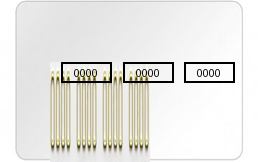
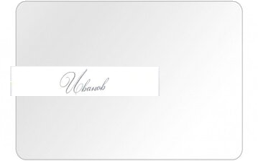
Add files via upload

Changed region(s): [[0.031, 0.3704, 0.6822, 1.0], [0.7132, 0.3704, 0.9302, 0.5247], [0.2171, 0.9877, 0.2481, 1.0]]

diff --git a/main.py b/main.py
@@ -288,10 +288,9 @@ extra_icons = {
     "Магнитная полоса с кодированием": os.path.join(BASE_IMAGE_DIR, "magnetic_strip.png"),
     "Печатный номер": os.path.join(BASE_IMAGE_DIR, "print_number.png"),
     "Отверстия в карте (за каждое)": os.path.join(BASE_IMAGE_DIR, "hole.png"),
-    "Магнитный винил (Магниты)" : os.path.join(BASE_IMAGE_DIR, "magnetic_strip.png"),
     "Фактурное покрытие": os.path.join(BASE_IMAGE_DIR, "texture.png"),
     "Эмбоссирование и типирование": os.path.join(BASE_IMAGE_DIR, "emboss.png"),
-    "Тиснение (фальгирование)": 0,
+    "Тиснение (фальгирование)": os.path.join(BASE_IMAGE_DIR, ""),
     "Скретч-полосса (стираемый слой)": os.path.join(BASE_IMAGE_DIR, "scratch.png"),
     "Полоса для подписи": os.path.join(BASE_IMAGE_DIR, "signature.png")
 }
@@ -377,12 +376,10 @@ def create_card_image(chat_id):
         "Магнитная полоса с кодированием": (0, card_height_px - 20),  # Внизу
         "Печатный номер": (50, card_height_px - 100),  # Под магнитной полосой
         "Отверстия в карте (за каждое)": (card_width_px - 150, card_height_px // 2),  # Справа по центру
-        "Магнитный винил (Магниты)": (card_width_px - 150, card_height_px - 100),  # Справа внизу
         "Фактурное покрытие": (50, 50),  # Слева сверху
         "Эмбоссирование и типирование": (card_width_px // 2, 50),  # По центру сверху
         "Тиснение (фальгирование)": (card_width_px // 2, card_height_px // 2),  # Центр
         "Скретч-полосса (стираемый слой)": (card_width_px - 150, 50),  # Справа сверху
-        "Полоса для подписи": (50, card_height_px // 2)  # Слева по центру
     }
     
     # Размеры иконок
@@ -404,9 +401,8 @@ def create_card_image(chat_id):
             position = element_positions.get(extra, (50, 50))  # По умолчанию (50, 50)
             
             # Накладываем иконку на базовое изображение
-            card_image.paste(icon, position, icon)
             
-            # Специфическая логика для некоторых элементов
+            # Специфическая логика для элементов
             if extra == "Магнитная полоса с кодированием":
                 magnetic_strip_path = extra_icons.get("Магнитная полоса с кодированием")
                 if magnetic_strip_path and os.path.exists(magnetic_strip_path):
@@ -424,55 +420,76 @@ def create_card_image(chat_id):
                     magnetic_strip = Image.new("RGBA", (card_width_px, 20), color=(0, 0, 0, 255))
                     card_image.paste(magnetic_strip, (0, card_height_px - 20), magnetic_strip)
             
-            elif extra == "Отверстия в карте (за каждое)":
-                hole_icon_path = extra_icons.get("Отверстия в карте (за каждое)")
-                if hole_icon_path and os.path.exists(hole_icon_path):
-                    try:
-                        # Открываем иконку отверстий
-                        hole_icon = Image.open(hole_icon_path).convert("RGBA")
-                        # Масштабируем до нужных размеров
-                        hole_icon = hole_icon.resize((30, 30))
-                        # Размещаем несколько отверстий
-                        for i in range(3):  # Пример: добавляем 3 отверстия
-                            hole_position = (
-                                position[0] + i * 40,
-                                position[1]
-                            )
-                            card_image.paste(hole_icon, hole_position, hole_icon)
-                    except Exception as e:
-                        logging.error(f"Error processing holes: {e}")
-            
             elif extra == "Скретч-полосса (стираемый слой)":
                 scratch_icon_path = extra_icons.get("Скретч-полосса (стираемый слой)")
                 if scratch_icon_path and os.path.exists(scratch_icon_path):
                     try:
                         # Открываем иконку скретч-полосы
                         scratch_icon = Image.open(scratch_icon_path).convert("RGBA")
+                        
                         # Масштабируем до нужных размеров
                         scratch_icon = scratch_icon.resize((150, 30))
-                        # Размещаем в указанной позиции
-                        card_image.paste(scratch_icon, position, scratch_icon)
+                        
+                        # Параметры размещения скретч-полоссы
+                        horizontal_offset = 10  # Отступ от правого края
+                        vertical_offset = 10   # Отступ от нижнего края
+                        
+                        # Позиция скретч-полоссы
+                        scratch_position = (
+                            card_width_px - scratch_icon.width - horizontal_offset,  # Горизонтальная позиция справа
+                            card_height_px - scratch_icon.height - vertical_offset  # Вертикальная позиция снизу
+                        )
+                        
+                        # Накладываем иконку скретч-полоссы
+                        card_image.paste(scratch_icon, scratch_position, scratch_icon)
                     except Exception as e:
                         logging.error(f"Error processing scratch strip: {e}")
             
             elif extra == "Печатный номер":
+                # Получаем путь к базовому изображению
+                base_image_path = base_image.get(state["plastic"])
+                if not base_image_path or not os.path.exists(base_image_path):
+                    logging.error(f"Base image for plastic '{state['plastic']}' not found")
+                    # Если базовое изображение не найдено, создаем placeholder
+                    card_image = Image.new("RGBA", (card_width_px, card_height_px), color=(255, 255, 255))
+                else:
+                    try:
+                        # Загружаем базовое изображение
+                        card_image = Image.open(base_image_path).convert("RGBA")
+                        card_image = card_image.resize((card_width_px, card_height_px), resample=Image.Resampling.LANCZOS)
+                    except Exception as e:
+                        logging.error(f"Error opening base image {base_image_path}: {e}")
+                        # Если возникла ошибка при загрузке базового изображения, создаем placeholder
+                        card_image = Image.new("RGBA", (card_width_px, card_height_px), color=(255, 255, 255))
+
+                # Определяем границы карты
+                border_radius = 10 * pixel_per_mm  # Радиус закругления углов
+                mask = Image.new('L', card_image.size, 0)
+                draw_mask = ImageDraw.Draw(mask)
+                draw_mask.rounded_rectangle((0, 0, card_width_px - 1, card_height_px - 1), radius=border_radius, fill=255)
+                # Применяем маску для закругления углов
+                card_image.putalpha(mask)
+
+                # Создаем объект для рисования
+                draw = ImageDraw.Draw(card_image)
+
                 # Логика для "Печатный номер"
-                print_number_position = element_positions.get(extra, (50, 50))
+                print_number_position = (50, 50)  # Позиция по умолчанию
                 font = ImageFont.load_default()
-                
+
                 # Рисуем несколько прямоугольников с текстом
                 num_rectangles = 4  # Четыре группы цифр
-                rect_width = 50  # Ширина каждого прямоугольника
-                rect_height = 20  # Высота каждого прямоугольника
-                
+                rect_width = 50     # Ширина каждого прямоугольника
+                rect_height = 20    # Высота каждого прямоугольника
+
                 # Расчет начальной позиции
                 start_x = print_number_position[0]
                 start_y = print_number_position[1]
-                
+
                 # Рассчитываем интервал между прямоугольниками
                 total_space = card_width_px - (num_rectangles * rect_width)
                 spacing = total_space / (num_rectangles + 1)
-                
+
                 for i in range(num_rectangles):
                     rect_x = int(start_x + (i + 1) * spacing + i * rect_width)
                     rect_y = start_y
@@ -492,7 +509,7 @@ def create_card_image(chat_id):
                     )
                     
                     # Добавляем текст внутри прямоугольника
-                    text = "0000"  # Например, четыре цифры
+                    text = "xxxx"  # Текст внутри прямоугольника
                     text_bbox = draw.textbbox((rect_x, rect_y), text, font=font)
                     draw.text(
                         (
@@ -500,11 +517,119 @@ def create_card_image(chat_id):
                             rect_y + 5
                         ),
                         text,
-                        fill="black",
+                        fill="black",  # Черный цвет текста
                         font=font
                     )
+        
+            elif extra == "Полоса для подписи":
+                signature_strip_path = extra_icons.get("Полоса для подписи")
+                if signature_strip_path and os.path.exists(signature_strip_path):
+                    try:
+                        # Открываем иконку полосы для подписи
+                        signature_strip = Image.open(signature_strip_path).convert("RGBA")
+                        
+                        # Масштабируем до нужных размеров
+                        signature_strip = signature_strip.resize((150, 30))
+                        
+                        # Параметры размещения полосы для подписи
+                        horizontal_offset = 10  # Отступ от левого края
+                        vertical_offset = 10   # Отступ от нижнего края
+                        
+                        # Позиция полосы для подписи
+                        signature_position = (
+                            horizontal_offset,  # Горизонтальная позиция слева
+                            card_height_px // 2 - (signature_strip.height // 2)  # Вертикальная позиция по центру
+                        )
+                        
+                        # Накладываем иконку полосы для подписи
+                        card_image.paste(signature_strip, signature_position, signature_strip)
+                    except Exception as e:
+                        logging.error(f"Error processing signature strip: {e}")
+
+            elif extra == "Штрих-код":
+
+                # Получаем путь к базовому изображению
+                base_image_path = base_image.get(state["plastic"])
+                if not base_image_path or not os.path.exists(base_image_path):
+                    logging.error(f"Base image for plastic '{state['plastic']}' not found")
+                    # Если базовое изображение не найдено, создаем placeholder
+                    card_image = Image.new("RGBA", (card_width_px, card_height_px), color=(255, 255, 255))
+                else:
+                    try:
+                        # Загружаем базовое изображение
+                        card_image = Image.open(base_image_path).convert("RGBA")
+                        card_image = card_image.resize((card_width_px, card_height_px), resample=Image.Resampling.LANCZOS)
+                    except Exception as e:
+                        logging.error(f"Error opening base image {base_image_path}: {e}")
+                        # Если возникла ошибка при загрузке базового изображения, создаем placeholder
+                        card_image = Image.new("RGBA", (card_width_px, card_height_px), color=(255, 255, 255))
+
+                # Определяем границы карты
+                border_radius = 10 * pixel_per_mm  # Радиус закругления углов
+                mask = Image.new('L', card_image.size, 0)
+                draw_mask = ImageDraw.Draw(mask)
+                draw_mask.rounded_rectangle((0, 0, card_width_px - 1, card_height_px - 1), radius=border_radius, fill=255)
+                # Применяем маску для закругления углов
+                card_image.putalpha(mask)
+
+                # Создаем объект для рисования
+                draw = ImageDraw.Draw(card_image)
+
+                # Логика для штрих-кода
+                barcode_icon_path = extra_icons.get("Штрих-код")
+                if barcode_icon_path and os.path.exists(barcode_icon_path):
+                    try:
+                        # Открываем иконку штрих-кода
+                        barcode_icon = Image.open(barcode_icon_path).convert("RGBA")
+                        
+                        # Масштабируем до нужных размеров
+                        barcode_icon = barcode_icon.resize((150, 30))
+                        
+                        # Параметры размещения штрих-кода
+                        horizontal_offset = 5  # Отступ от левого края
+                        vertical_offset = 10   # Отступ от верхнего края
+                        
+                        # Позиция штрих-кода
+                        barcode_position = (
+                            horizontal_offset,  # Горизонтальная позиция слева
+                            vertical_offset     # Вертикальная позиция сверху
+                        )
+                        
+                        # Накладываем иконку штрих-кода
+                        card_image.paste(barcode_icon, barcode_position, barcode_icon)
+                    except Exception as e:
+                        logging.error(f"Error processing barcode: {e}")
+           
+            # Проверяем, есть ли дополнение "Отверстия в карте (за каждое)"
+            elif "Отверстия в карте (за каждое)" in state["extras"]:
+                for extra in state["extras"]:
+                    if extra == "Отверстия в карте (за каждое)":
+                        hole_icon_path = extra_icons.get("Отверстия в карте (за каждое)")
+                        if hole_icon_path and os.path.exists(hole_icon_path):
+                            try:
+                                # Открываем иконку отверстий
+                                hole_icon = Image.open(hole_icon_path).convert("RGBA")
+                                # Масштабируем до нужных размеров
+                                hole_icon = hole_icon.resize((30, 30))
+                                
+                                # Параметры размещения отверстий
+                                horizontal_offset = 10  # Отступ от левого края
+                                card_center_y = card_height_px // 2  # Центральная часть карты по высоте
+                                
+                                # Позиция центрального отверстия
+                                hole_position = (
+                                    horizontal_offset,  # Фиксированный горизонтальный отступ
+                                    card_center_y - (hole_icon.height // 2)  # Вертикальная позиция по центру
+                                )
+                                
+                                # Накладываем иконку отверстия
+                                card_image.paste(hole_icon, hole_position, hole_icon)
+                            except Exception as e:
+                                logging.error(f"Error processing holes: {e}")
+                
+            
         except Exception as e:
-            logging.error(f"Error processing icon '{icon_path}': {e}")
+            logging.error(f"Error processing icon: {e}")
 
     # Сохраняем изображение
     result_path = os.path.join(BASE_IMAGE_DIR, f"{chat_id}_temp_card.png")
@@ -719,17 +844,50 @@ def calculate_cost(chat_id):
 
         # Создание изображения
         try:
+            # Создаем изображение карты
             image_path = create_card_image(chat_id)
+            # Используем временный файл для отправки изображения
             with temporary_file(image_path) as photo_path:
                 with open(photo_path, 'rb') as photo:
-                    bot.send_photo(
-                        chat_id,
-                        photo,
-                        caption=(
-                            f"Итоговая стоимость для {lower_bound} карточек: {total_cost_lower} Р\n"
-                            f"Итоговая стоимость для {upper_bound} карточек: {total_cost_upper} Р"
+                    # Проверяем, добавлен ли элемент "Магнитный винил (Магниты)"
+                    if "Магнитный винил (Магниты)" in state.get("extras", []):
+                        bot.send_photo(
+                            chat_id,
+                            photo,
+                            caption=(
+                                f"Итоговая стоимость для {lower_bound} карточек: {total_cost_lower} Р\n"
+                                f"Итоговая стоимость для {upper_bound} карточек: {total_cost_upper} Р\n"
+                                f"Магнитный винил (Магниты) будет добавлен в итоговой вариант физического варианта карточки, так как добавить это в генерацию изображения получилось только так."
+                            )
                         )
-                    )
+                    elif "Фактурное покрытие" in state.get("extras",[]):
+                        bot.send_photo(
+                            chat_id,
+                            photo,
+                            caption=
+                            f"Итоговая стоимость для {lower_bound} карточек: {total_cost_lower} Р\n"
+                            f"Итоговая стоимость для {upper_bound} карточек: {total_cost_upper} Р\n"
+                            f"Фактурное покрытие будет добавлено в итоговой вариант физического варианта карточки, так как добавить это в генерацию изображения пока что не получается."
+                        )
+                    elif "Эмбоссирование и типирование" in state.get("extras",[]):
+                        bot.send_photo(
+                            chat_id,
+                            photo,
+                            caption=
+                            f"Итоговая стоимость для {lower_bound} карточек: {total_cost_lower} Р\n"
+                            f"Итоговая стоимость для {upper_bound} карточек: {total_cost_upper} Р\n"
+                            f"Эмбоссирование и типирование будет добавлено в итоговой вариант физического варианта карточки, так как добавить это в генерацию изображения пока что не получается."
+                        )
+                    else:
+                        bot.send_photo(
+                            chat_id,
+                            photo,
+                            caption=(
+                                f"Итоговая стоимость для {lower_bound} карточек: {total_cost_lower} Р\n"
+                                f"Итоговая стоимость для {upper_bound} карточек: {total_cost_upper} Р"
+                            )
+                        )
+
         except Exception as e:
             logging.error(f"Error creating image: {e}")
             bot.send_message(
